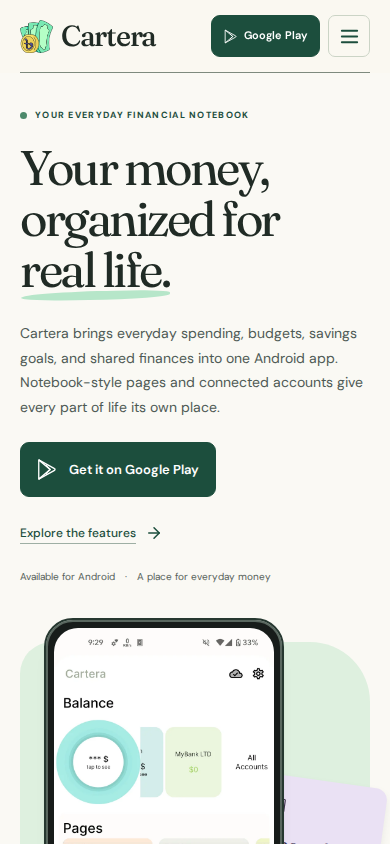
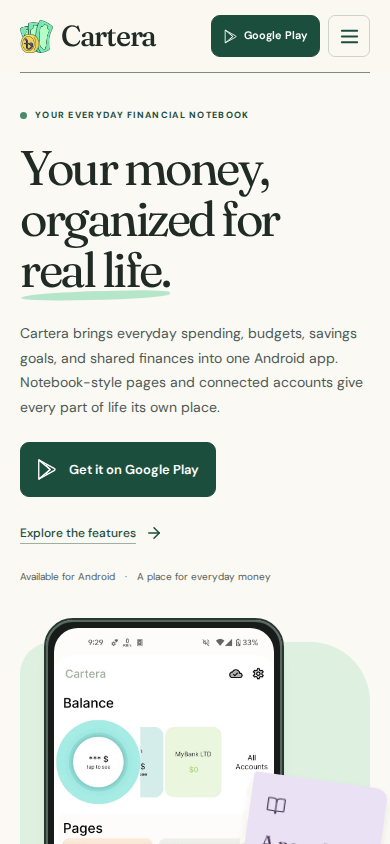
Refine carousel layering and record verified behavior

Changed region(s): [[0.6154, 0.8934, 0.7385, 1.0]]

diff --git a/src/app/globals.css b/src/app/globals.css
@@ -107,7 +107,7 @@
 .hero-sticker svg { margin-top: 8px; transform: rotate(15deg); }
 .hero-visual figcaption { font-size: 11px; color: var(--quiet); margin: 16px 0 0 48px; }
 
-.hero-carousel-body { width: var(--hero-phone-width); margin-left: var(--hero-phone-offset); position: relative; z-index: 4; }
+.hero-carousel-body { width: var(--hero-phone-width); margin-left: var(--hero-phone-offset); position: relative; z-index: 2; }
 .hero-carousel-body .phone-frame { width: 100%; margin-left: 0; }
 .hero-carousel-viewport { overflow: hidden; border-radius: 24px; touch-action: pan-y pinch-zoom; }
 .hero-carousel-track { display: flex; }
@@ -120,7 +120,7 @@
 .hero-carousel-count { font-size: 12px; color: var(--green); font-variant-numeric: tabular-nums; }
 .hero-carousel-dots { display: flex; justify-content: center; gap: 4px; }
 .hero-carousel-dots button { width: 24px; height: 32px; display: grid; place-items: center; border-radius: 6px; }
-.hero-carousel-dots span { width: 6px; height: 6px; background: #768d7d; border-radius: 50%; transition: width 150ms ease, background 150ms ease; }
+.hero-carousel-dots span { width: 6px; height: 6px; background: #768d7d; border-radius: 50%; transition: background 150ms ease; }
 .hero-carousel-dots button[aria-current="true"] span { width: 18px; background: var(--green); }
 .hero-visual .hero-carousel-caption { width: var(--hero-phone-width); margin: 0 0 0 var(--hero-phone-offset); text-align: center; min-height: 17px; }
 

diff --git a/PRODUCT.md b/PRODUCT.md
@@ -76,7 +76,7 @@ Preserve /blogs, /privacy-policy, and /terms-and-conditions, or provide correct 
 - docs/website-revamp-handoff.md: implementation notes, verification, asset provenance, and publication checks.
 - src/app/page.tsx: the approved website draft and product explanations.
 - public/icon.png: the actual Android app icon copied from appCartera/src/main/icon.png.
-- public/screenshots/analysis.webp: a real development-build Analysis capture without names, contacts, or account identifiers. Its dataset and correspondence to the public release still need owner approval.
+- public/screenshots/: the hero carousel uses seven owner-supplied app captures from `/home/portonics/Documents/cartera screen shot/promo-3`, optimized as WebP. The older analysis.webp development capture is retained as an asset but no longer shown in the hero. Correspondence to the current public release remains unverified.
 - docs/previews/: desktop and mobile captures of the website draft.
 - Existing blog and legal content is retained. Historical blog ratings, prices, launch language, and budget-alert claims need editorial verification.
 - No verified testimonials, review ratings, user counts, rankings, or savings statistics have been provided.

diff --git a/docs/website-revamp-handoff.md b/docs/website-revamp-handoff.md
@@ -47,4 +47,5 @@ The dev server runs on port 9002. The build produces a static site in out/.
 - The production build passed with all pages statically exported; lint remains skipped by the existing build configuration.
 - Browser checks covered desktop and widths 320, 375, 390, 650, 768, 900, 1024, and 1440; mobile download visibility; Google Play links and section anchors; menu close behavior; FAQ expansion; contact validation and email-draft feedback; existing routes and local assets; footer links; and reduced motion.
 - The homepage had no automated WCAG A/AA violations in axe-core checks, no browser script errors, and no failed asset requests.
+- Carousel checks covered all seven loaded images, previous/next and wraparound, direct selection, keyboard and drag navigation, autoplay, hover and manual pause/resume, offscreen pausing, and reduced-motion behavior.
 - An independent read-only review found no critical or important issues.
